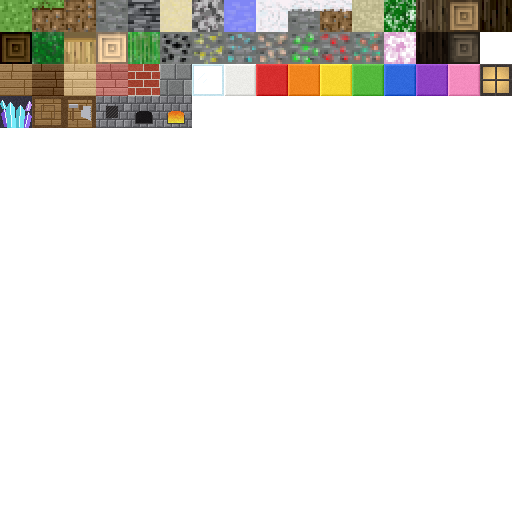
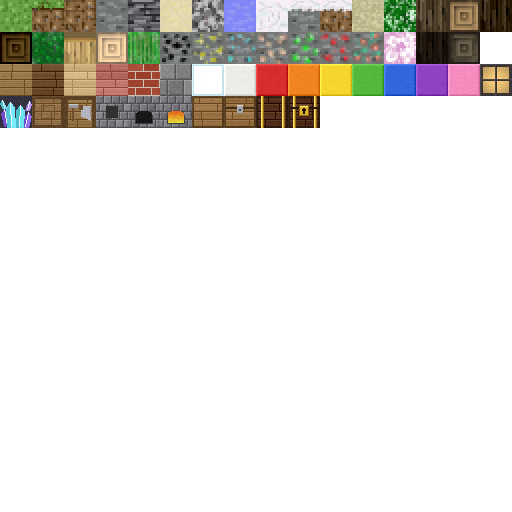
feat(chests): chest and treasure chest blocks, the Treasure Key
A Chest is 8 planks at a table and mines like planks. A Treasure Chest
is never an item, drops nothing and can't be broken in any mode. The
key is 2 gold ingots and a gem at a table, 16 to a stack. Original
tiles and icon.

Changed region(s): [[0.375, 0.1875, 0.625, 0.25]]

diff --git a/tests/chest_test.cpp b/tests/chest_test.cpp
@@ -1,0 +1,62 @@
+#include "doctest/doctest.h"
+#include "block/block_data.hpp"
+#include "item/item.hpp"
+#include "item/mining.hpp"
+#include "item/recipes.hpp"
+#include <algorithm>
+
+// ─── Blocks and items ──────────────────────────────────────────────────
+
+TEST_CASE("chests are blocks with art; only the plain one is an item") {
+  for (BlockType b : {BlockType::CHEST, BlockType::TREASURE_CHEST}) {
+    CAPTURE(blockName(b));
+    CHECK(blockName(b) != "Unknown");
+    CHECK(block_data.count(b) == 1);
+  }
+  CHECK(static_cast<uint16_t>(BlockType::CHEST) + 1 ==
+        static_cast<uint16_t>(BlockType::TREASURE_CHEST));
+  CHECK(isValidItem(itemForBlock(BlockType::CHEST)));
+  CHECK(dropFor(BlockType::CHEST) == itemForBlock(BlockType::CHEST));
+  // Found, never held, placed or picked from the palette.
+  CHECK_FALSE(isValidItem(itemForBlock(BlockType::TREASURE_CHEST)));
+  CHECK_FALSE(dropFor(BlockType::TREASURE_CHEST));
+  const auto &palette = paletteItems();
+  CHECK(std::find(palette.begin(), palette.end(), itemForBlock(BlockType::TREASURE_CHEST)) ==
+        palette.end());
+  CHECK(std::find(palette.begin(), palette.end(), itemForBlock(BlockType::CHEST)) !=
+        palette.end());
+}
+
+TEST_CASE("a chest mines like planks; a treasure chest never breaks") {
+  CHECK(toughness(BlockType::CHEST).breakable);
+  CHECK(toughness(BlockType::CHEST).best == ToolKind::Axe);
+  CHECK(toughness(BlockType::CHEST).hand_ms == toughness(BlockType::OAK_PLANKS).hand_ms);
+  CHECK_FALSE(toughness(BlockType::TREASURE_CHEST).breakable);
+}
+
+TEST_CASE("a chest is 8 planks, a key 2 gold ingots and a gem, both at a table") {
+  int chests = 0, keys = 0;
+  for (const Recipe &r : recipes()) {
+    if (r.makes.id == itemForBlock(BlockType::CHEST)) {
+      ++chests;
+      CHECK(r.needs_table);
+      REQUIRE(r.needs.size() == 1);
+      CHECK(r.needs[0].count == 8);
+      CHECK(r.needs[0].any_of.size() == 4); // any planks
+    }
+    if (r.makes.id == ItemId::TREASURE_KEY) {
+      ++keys;
+      CHECK(r.needs_table);
+      CHECK(r.makes.count == 1);
+      REQUIRE(r.needs.size() == 2);
+      CHECK(r.needs[0].any_of == std::vector<ItemId>{ItemId::GOLD_INGOT});
+      CHECK(r.needs[0].count == 2);
+      CHECK(r.needs[1].any_of ==
+            std::vector<ItemId>{ItemId::RUBY, ItemId::EMERALD, ItemId::DIAMOND});
+      CHECK(r.needs[1].count == 1);
+    }
+  }
+  CHECK(chests == 1);
+  CHECK(keys == 1);
+  CHECK(itemDef(ItemId::TREASURE_KEY).max_stack == 16);
+}

diff --git a/tools/gen_building_tiles.py b/tools/gen_building_tiles.py
@@ -237,6 +237,62 @@ def furnace_side(rng, lit):
     return img
 
 
+def chest_wood(base, frame, rng):
+    """Boards inside a darker frame: the body of a chest."""
+    img = planks(base, rng)
+    px = pixels(img)
+    for y in range(TILE):
+        for x in range(TILE):
+            if x < 2 or y < 2 or x > TILE - 3 or y > TILE - 3:
+                px[x, y] = shade(frame, rng.randint(-6, 6) + (12 if x == 0 or y == 0 else 0)) + (255,)
+    return img
+
+
+def chest_top(rng):
+    return chest_wood((150, 112, 66), (86, 58, 30), rng)
+
+
+def chest_side(rng):
+    img = chest_wood((150, 112, 66), (86, 58, 30), rng)
+    draw = ImageDraw.Draw(img)
+    draw.rectangle([2, 11, 29, 12], fill=(70, 46, 22, 255))       # the lid's edge
+    draw.rectangle([13, 9, 18, 16], fill=(168, 168, 176, 255))    # latch
+    draw.rectangle([13, 9, 18, 9], fill=(214, 214, 222, 255))
+    draw.rectangle([15, 13, 16, 14], fill=(60, 60, 66, 255))
+    return img
+
+
+GOLD, GOLD_DARK, GOLD_LIGHT = (222, 176, 52), (140, 100, 20), (255, 228, 120)
+
+
+def gold_bands(img, horizontal):
+    """Gold straps across a treasure chest."""
+    px = pixels(img)
+    for i in range(TILE):
+        for b in (5, 26):
+            for w in range(3):
+                x, y = (i, b + w) if horizontal else (b + w, i)
+                px[x, y] = (GOLD_LIGHT if w == 0 else GOLD if w == 1 else GOLD_DARK) + (255,)
+
+
+def treasure_top(rng):
+    img = chest_wood((84, 50, 30), (44, 26, 14), rng)
+    gold_bands(img, horizontal=False)
+    return img
+
+
+def treasure_side(rng):
+    img = chest_wood((84, 50, 30), (44, 26, 14), rng)
+    gold_bands(img, horizontal=False)
+    draw = ImageDraw.Draw(img)
+    draw.rectangle([2, 11, 29, 12], fill=(36, 20, 10, 255))       # the lid's edge
+    draw.rectangle([11, 9, 20, 19], fill=GOLD + (255,), outline=GOLD_DARK + (255,))  # lock plate
+    draw.rectangle([12, 10, 19, 10], fill=GOLD_LIGHT + (255,))
+    draw.ellipse([14, 12, 17, 15], fill=(30, 18, 8, 255))         # keyhole
+    draw.rectangle([15, 15, 16, 17], fill=(30, 18, 8, 255))
+    return img
+
+
 def lamp(rng):
     """Four glowing panes in a dark iron frame, brightest in the middle."""
     img = new_tile()
@@ -285,6 +341,10 @@ TILES = [
     ("furnace_top",         furnace_top),
     ("furnace_side",        lambda r: furnace_side(r, False)),
     ("furnace_lit_side",    lambda r: furnace_side(r, True)),
+    ("chest_top",           chest_top),
+    ("chest_side",          chest_side),
+    ("treasure_chest_top",  treasure_top),
+    ("treasure_chest_side", treasure_side),
 ]
 
 

diff --git a/tests/item_test.cpp b/tests/item_test.cpp
@@ -30,7 +30,9 @@ TEST_CASE("kLastBlockType is the last named block type") {
 TEST_CASE("every placeable block has an item that places it") {
   for (uint16_t v = 1; v <= kLastBlock; ++v) {
     BlockType b = static_cast<BlockType>(v);
-    if (b == BlockType::WATER || b == BlockType::FURNACE_LIT) continue;
+    if (b == BlockType::WATER || b == BlockType::FURNACE_LIT ||
+        b == BlockType::TREASURE_CHEST)
+      continue;
     ItemId id = itemForBlock(b);
     CAPTURE(blockName(b));
     REQUIRE(isValidItem(id));
@@ -45,7 +47,7 @@ TEST_CASE("every placeable block has an item that places it") {
 
 TEST_CASE("the material items are defined with unique item-atlas tiles") {
   auto mats = materials();
-  CHECK(mats.size() == 52);
+  CHECK(mats.size() == 53);
 
   std::set<std::pair<int, int>> tiles;
   for (ItemId id : mats) {
@@ -55,7 +57,7 @@ TEST_CASE("the material items are defined with unique item-atlas tiles") {
     CHECK(!def.name.empty());
     CHECK(def.name != "Unknown");
     bool single = usesOf(id) > 0 || id == ItemId::SOGGY_BOOT;
-    CHECK(def.max_stack == (single ? 1 : 64));
+    CHECK(def.max_stack == (single ? 1 : id == ItemId::TREASURE_KEY ? 16 : 64));
     CHECK_FALSE(def.places.has_value());
     CHECK(def.icon.atlas == ItemIcon::Atlas::Item);
     CHECK(def.icon.tile.x >= 0);
@@ -82,6 +84,7 @@ TEST_CASE("material item ids are stable") {
   CHECK(static_cast<uint16_t>(ItemId::FISHING_ROD) == 300);
   CHECK(static_cast<uint16_t>(ItemId::COOKED_GLOWFIN) == 306);
   CHECK(static_cast<uint16_t>(ItemId::SOGGY_BOOT) == 307);
+  CHECK(static_cast<uint16_t>(ItemId::TREASURE_KEY) == 308);
 }
 
 TEST_CASE("isValidItem rejects the empty item, water and unknown ids") {
@@ -124,7 +127,7 @@ TEST_CASE("every other block drops itself, and every drop is a valid item") {
       BlockType::GRASS,       BlockType::SNOW_DIRT,   BlockType::STONE,
       BlockType::COAL_ORE,    BlockType::DIAMOND_ORE, BlockType::EMERALD_ORE,
       BlockType::RUBY_ORE,    BlockType::IRON_ORE,    BlockType::GOLD_ORE,
-      BlockType::COPPER_ORE,  BlockType::FURNACE_LIT,
+      BlockType::COPPER_ORE,  BlockType::FURNACE_LIT, BlockType::TREASURE_CHEST,
   };
   for (uint16_t v = 0; v <= kLastBlock; ++v) {
     BlockType b = static_cast<BlockType>(v);

diff --git a/tools/gen_item_placeholders.py b/tools/gen_item_placeholders.py
@@ -238,6 +238,21 @@ def soggy_boot():
     return img
 
 
+def treasure_key():
+    img = Image.new("RGBA", (TILE, TILE), (0, 0, 0, 0))
+    d = ImageDraw.Draw(img)
+    gold, dark, light = (232, 186, 56, 255), (140, 100, 20, 255), (255, 236, 150, 255)
+    d.ellipse([3, 3, 15, 15], fill=gold, outline=dark)        # the bow
+    d.ellipse([7, 7, 11, 11], fill=(0, 0, 0, 0), outline=dark)
+    d.line([(13, 13), (27, 27)], fill=dark, width=5)          # the shaft
+    d.line([(13, 13), (27, 27)], fill=gold, width=3)
+    d.line([(22, 22), (19, 25)], fill=dark, width=4)          # teeth
+    d.line([(25, 25), (22, 28)], fill=dark, width=4)
+    d.point((6, 6), fill=light)
+    d.point((7, 5), fill=light)
+    return img
+
+
 FISHING = [fishing_rod] + [fish(*c, cooked=cooked) for c in FISH for cooked in (False, True)] + [soggy_boot]
 
 # Animal products, crafted and smelted items, after the shape-based
@@ -246,7 +261,7 @@ DRAWN = [wool, berries, shell, petals, sticks,
          ingot((200, 200, 206), (110, 110, 118), (236, 236, 242)),   # iron
          ingot((214, 120, 64), (120, 60, 28), (246, 170, 120)),     # copper
          ingot((240, 200, 60), (150, 110, 20), (255, 236, 140)),    # gold
-         charcoal] + TOOLS + FISHING
+         charcoal] + TOOLS + FISHING + [treasure_key]
 
 
 def main():

diff --git a/src/item/item.cpp b/src/item/item.cpp
@@ -59,14 +59,17 @@ constexpr std::array<Material, kMaterialCount> kMaterials = {{
     {"Raw Glowfin", 2},
     {"Cooked Glowfin", 8},
     {"Soggy Boot", 0, 1},
+    {"Treasure Key", 0, 16}, // opens a treasure chest
 }};
 constexpr int kItemAtlasCols = 8;
 
 bool isPlaceableBlock(uint16_t v) {
   if (v == 0 || v > static_cast<uint16_t>(kLastBlockType)) return false;
-  // Water is never held, and a lit furnace is a furnace that's burning.
+  // Water is never held, a lit furnace is a furnace that's burning, and a
+  // treasure chest is only ever found.
   BlockType b = static_cast<BlockType>(v);
-  return b != BlockType::WATER && b != BlockType::FURNACE_LIT;
+  return b != BlockType::WATER && b != BlockType::FURNACE_LIT &&
+         b != BlockType::TREASURE_CHEST;
 }
 
 bool isMaterial(uint16_t v) {
@@ -123,7 +126,8 @@ std::optional<ItemId> dropFor(BlockType b) {
   switch (b) {
     case BlockType::AIR:
     case BlockType::WATER:
-    case BlockType::BEDROCK:     return std::nullopt;
+    case BlockType::BEDROCK:
+    case BlockType::TREASURE_CHEST: return std::nullopt;
     case BlockType::GRASS:
     case BlockType::SNOW_DIRT:   return itemForBlock(BlockType::DIRT);
     case BlockType::STONE:       return itemForBlock(BlockType::COBBLESTONE);

diff --git a/inc/block/block_data.hpp b/inc/block/block_data.hpp
@@ -154,6 +154,8 @@ inline std::string_view blockName(BlockType type) {
     case BlockType::CRAFTING_TABLE: return "Crafting Table";
     case BlockType::FURNACE:       return "Furnace";
     case BlockType::FURNACE_LIT:   return "Lit Furnace";
+    case BlockType::CHEST:         return "Chest";
+    case BlockType::TREASURE_CHEST: return "Treasure Chest";
     default:                      return "Unknown";
   }
 }
@@ -208,4 +210,8 @@ static robin_hood::unordered_map<BlockType, BlockTexture> block_data = {
     // A stone top and a mouth on every side; flames in it while lit.
     {BlockType::FURNACE, {glm::ivec2{3, 3}, glm::ivec2{3, 3}, glm::ivec2{4, 3}}},
     {BlockType::FURNACE_LIT, {glm::ivec2{3, 3}, glm::ivec2{3, 3}, glm::ivec2{5, 3}}},
+    // A lid on top and a latch on every side; the treasure chest in dark
+    // wood with gold bands and a lock.
+    {BlockType::CHEST, {glm::ivec2{6, 3}, glm::ivec2{6, 3}, glm::ivec2{7, 3}}},
+    {BlockType::TREASURE_CHEST, {glm::ivec2{8, 3}, glm::ivec2{8, 3}, glm::ivec2{9, 3}}},
 };

diff --git a/src/item/mining.cpp b/src/item/mining.cpp
@@ -6,6 +6,7 @@ Toughness toughness(BlockType b) {
     case AIR:
     case WATER:
     case BEDROCK:
+    case TREASURE_CHEST: // only a key opens it
       return {false};
 
     case OAK_LEAF: case PINE_LEAF: case PALM_LEAF: case CHERRY_LEAF:
@@ -25,7 +26,7 @@ Toughness toughness(BlockType b) {
 
     case OAK_LOG: case PINE_LOG: case PALM_LOG: case CHERRY_LOG:
     case OAK_PLANKS: case PINE_PLANKS: case PALM_PLANKS: case CHERRY_PLANKS:
-    case CRAFTING_TABLE:
+    case CRAFTING_TABLE: case CHEST:
       return {true, 3000, ToolKind::Axe};
 
     case STONE: case COBBLESTONE: case SANDSTONE: case SNOW_STONE:

diff --git a/src/item/recipes.cpp b/src/item/recipes.cpp
@@ -75,6 +75,10 @@ const std::vector<Recipe> &recipes() {
                                {{material, shape.head}, {{ItemId::STICKS}, shape.sticks}}));
     list.push_back(atTable({ItemId::FISHING_ROD, 1},
                            {{{ItemId::STICKS}, 3}, {{ItemId::WOOL}, 2}}));
+    list.push_back(atTable({block(BlockType::CHEST), 1}, {{anyPlanks(), 8}}));
+    list.push_back(atTable({ItemId::TREASURE_KEY, 1},
+                           {{{ItemId::GOLD_INGOT}, 2},
+                            {{ItemId::RUBY, ItemId::EMERALD, ItemId::DIAMOND}, 1}}));
     return list;
   }();
   return all;

diff --git a/src/sim/game.cpp b/src/sim/game.cpp
@@ -583,7 +583,8 @@ void Game::apply(Client &client, const BreakBlock &cmd) {
 
   BlockType target = world_.getBlockAt(glm::vec3(cmd.pos) + 0.5f);
   if (target == BlockType::AIR) return reject(client, "break: nothing there");
-  if (target == BlockType::BEDROCK || target == BlockType::WATER)
+  if (target == BlockType::BEDROCK || target == BlockType::WATER ||
+      target == BlockType::TREASURE_CHEST)
     return reject(client, "break: unbreakable block");
 
   // Survival: it takes as long as the block and the tool in hand say, from

diff --git a/inc/block/block_type.hpp b/inc/block/block_type.hpp
@@ -53,8 +53,10 @@ enum class BlockType : uint8_t {
   CRAFTING_TABLE,
   FURNACE,
   FURNACE_LIT,  // a furnace while it burns: glows, and isn't an item
+  CHEST,
+  TREASURE_CHEST, // locked, in deep caves (worldgen v3): not an item, unbreakable
 };
 
 // The highest BlockType value. Update it when appending a type; a test in
 // tests/item_test.cpp fails if a named type exists past it.
-constexpr BlockType kLastBlockType = BlockType::FURNACE_LIT;
+constexpr BlockType kLastBlockType = BlockType::TREASURE_CHEST;

diff --git a/inc/item/item.hpp b/inc/item/item.hpp
@@ -65,11 +65,12 @@ enum class ItemId : uint16_t {
   RAW_GLOWFIN,
   COOKED_GLOWFIN,
   SOGGY_BOOT,
+  TREASURE_KEY,
   // Append only: the numeric value is persisted in inventory saves.
 };
 
 constexpr ItemId kFirstMaterialItem = ItemId::COAL;
-constexpr ItemId kLastMaterialItem = ItemId::SOGGY_BOOT;
+constexpr ItemId kLastMaterialItem = ItemId::TREASURE_KEY;
 
 struct ItemIcon {
   enum class Atlas : uint8_t { Block, Item };

diff --git a/IDEAS.md b/IDEAS.md
@@ -6,7 +6,7 @@ T will be used for chat later on
 
 feat: treasure chests (hard to find)
 - a rare occurrence
-- requires 
+- requires gold key
 
 
 [DONE] [DONE] feat: draw overly on current block (black border like minecraft)
